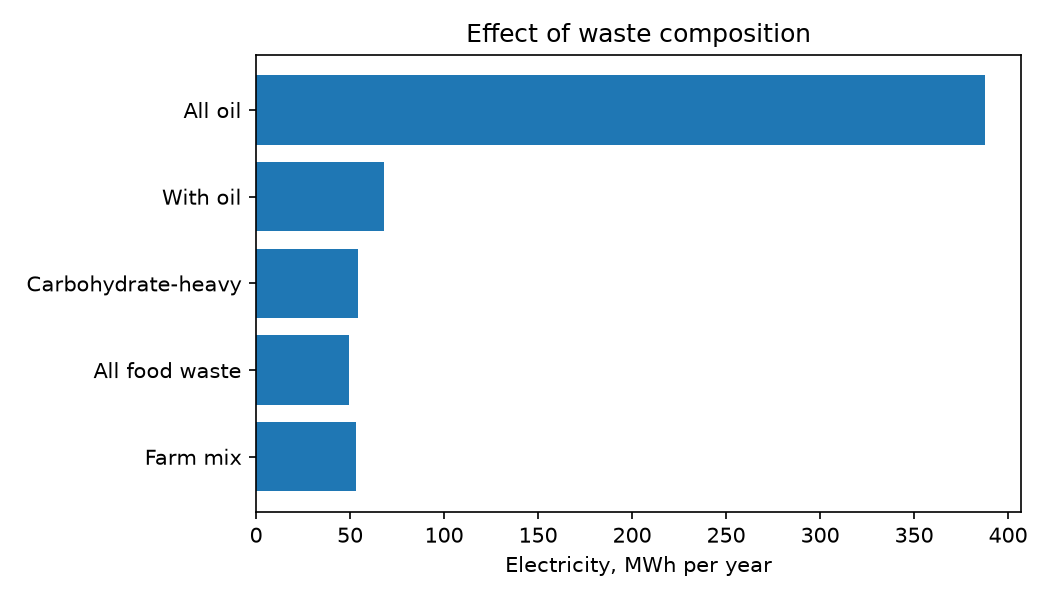
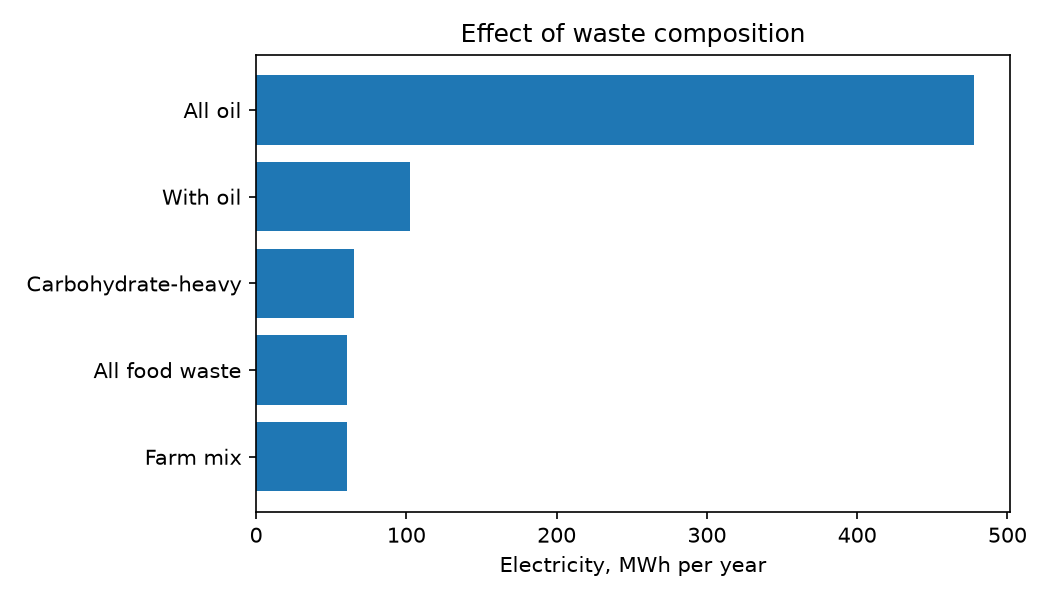
documentation + data export

diff --git a/src/Feedstockmodel.py b/src/Feedstockmodel.py
@@ -210,14 +210,14 @@ def farm_mix_row(df: pd.DataFrame, wet_kg_per_day:dict, vs_fraction_of_wet:dict,
     row["basis"] = basis
     return row
 
-def composition_table(df:pd.DataFrame, compositions: dict, vs_fraction_of_wet:dict, pretreatment_id:str = "S3", operating_days:float = 365, reference_id: str = "S3", use_batch: bool = True, yeilds: dict | None = None, constants: tuple | None = None) -> pd.DataFrame:
-    if yeilds is None:
-        yeilds, _ = fit_feedstock_yield(df, reference_id)
+def composition_table(df:pd.DataFrame, compositions: dict, vs_fraction_of_wet:dict, pretreatment_id:str = "S3", operating_days:float = 365, reference_id: str = "S3", use_batch: bool = True, yields: dict | None = None, constants: tuple | None = None) -> pd.DataFrame:
+    if yields is None:
+        yields, _ = fit_feedstock_yield(df, reference_id)
     if constants is None:
         constants = energy_constants(df)
     rows = []
     for name, wet in compositions.items():
-        row = farm_mix_row(df, wet, vs_fraction_of_wet, pretreatment_id, name, reference_id, use_batch, yeilds, constants)
+        row = farm_mix_row(df, wet, vs_fraction_of_wet, pretreatment_id, name, reference_id, use_batch, yields, constants)
         rows.append(
             {
                 "composition": name,

diff --git a/outputs/report.md b/outputs/report.md
@@ -4,26 +4,26 @@
 
 | metric                         |    value |
 |:-------------------------------|---------:|
-| Waste processed (wet t/yr)     |   146    |
-| Methane (Nm3/yr)               | 15232.3  |
-| Gross electricity (kWh/yr)     | 53030.8  |
-| Net electricity (kWh/yr)       | 47727.7  |
-| Useful recovered heat (kWh/yr) | 47728.1  |
+| Waste processed (wet t/yr)     |   180    |
+| Methane (Nm3/yr)               | 17425.8  |
+| Gross electricity (kWh/yr)     | 60667.2  |
+| Net electricity (kWh/yr)       | 54600.5  |
+| Useful recovered heat (kWh/yr) | 54600.9  |
 | Overall efficiency (%)         |    63    |
-| Electricity saving ($/yr)      | 12122.8  |
-| Heat saving ($/yr)             |  3369.04 |
-| CO2 avoided (t/yr)             |    44.64 |
+| Electricity saving ($/yr)      | 16161.8  |
+| Heat saving ($/yr)             |  3854.19 |
+| CO2 avoided (t/yr)             |    60.96 |
 
 ## Energy balance
 
 ```
-Energy in                      151,518kWh/yr
-Gross useful output             53,031kWh/yr
-of which own use                 5,303kWh/yr
-Net electricity                 47,728kWh/yr
-Recovered heat used             47,728kWh/yr
-Loses                           50,759kWh/yr
-Total out                      151,518kWh/yr
+Energy in                      173,336kWh/yr
+Gross useful output             60,667kWh/yr
+of which own use                 6,067kWh/yr
+Net electricity                 54,601kWh/yr
+Recovered heat used             54,601kWh/yr
+Loses                           58,068kWh/yr
+Total out                      173,336kWh/yr
 Closure error                    0.0%
 Efficiency (gross)              66.5%
 Efficiency (net)                63.0%
@@ -33,11 +33,11 @@ Efficiency (net)                63.0%
 
 | composition        |   wet_kg_per_day |   vs_kg_per_day |   ch4_nm3_per_day |   electricity_kwh_per_year |   vs_first |
 |:-------------------|-----------------:|----------------:|------------------:|---------------------------:|-----------:|
-| Farm mix           |              400 |           100   |             41.73 |                    53030.8 |       0    |
-| All food waste     |              400 |            90   |             38.72 |                    49207.9 |      -0.07 |
-| Carbohydrate-heavy |              400 |           116   |             42.5  |                    54009.7 |       0.02 |
-| With oil           |              400 |           109.5 |             53.54 |                    68038.5 |       0.28 |
-| All oil            |              400 |           380   |            305.01 |                   387590   |       6.31 |
+| Farm mix           |              500 |          112.5  |             48.41 |                    60667.2 |       0    |
+| All food waste     |              500 |          112.5  |             48.41 |                    60667.2 |       0    |
+| Carbohydrate-heavy |              500 |          146.25 |             52.06 |                    65248.8 |       0.08 |
+| With oil           |              500 |          148.75 |             81.69 |                   102386   |       0.69 |
+| All oil            |              500 |          475    |            381.27 |                   477851   |       6.88 |
 
 ## Alignment with Group 1
 
@@ -45,36 +45,16 @@ Efficiency (net)                63.0%
 - S3: 430.2 L CH4/kg VS used; Group 1's Specific Yield column says 285.1
 - Group 1's Specific Yield column is not methane per kg VS fed (it is treated yield x stability / 2.5), so it is not used
 - Food-waste VS share of wet weight: yours 0.225, Group 1 0.225
-- Farm mix by VS (Group 1's SCG percentages are by VS): food_waste 72.0%, scg 28.0%
+- Farm mix by VS (Group 1's SCG percentages are by VS): food_waste 100.0%
 - Check: Group 1's own feed in your model gives 3.37 kWh/day of electricity vs their 3.37 (+0.0%, matches)
 
 ## All scenarios
 
 The farm's own waste run under each Group 1 scenario. Full columns are in all_scenarios.csv.
 
-| Scenario ID   | Scenario                                     |   Yield multiplier |   Net electricity (kWh/yr) |   CO2 avoided (t/yr) |   Total Savings ($/yr) |   Net electricity vs S3 (%) | Notes                                                                   |
-|:--------------|:---------------------------------------------|-------------------:|---------------------------:|---------------------:|-----------------------:|----------------------------:|:------------------------------------------------------------------------|
-| S1            | Control food waste                           |              0.895 |                    42698.6 |               39.936 |                13859.5 |                     -10.537 |                                                                         |
-| S2            | Low fungal pretreatment                      |              0.939 |                    44818.7 |               41.919 |                14547.6 |                      -6.095 |                                                                         |
-| S3            | Moderate fungal pretreatment (Reference)     |              1     |                    47727.7 |               44.64  |                15491.9 |                       0     |                                                                         |
-| S4            | High fungal pretreatment                     |              1.049 |                    50045.1 |               46.807 |                16244.1 |                       4.855 |                                                                         |
-| S5            | Extended fungal pretreatment                 |              1.086 |                    51820.1 |               48.467 |                16820.2 |                       8.574 |                                                                         |
-| S6            | Moderate pretreatment + 10% SCG              |              1     |                    47742.7 |               44.654 |                15496.7 |                       0.031 | different feedstock; only its process effect is applied to the farm mix |
-| S7            | Moderate pretreatment + 20% SCG              |              1     |                    47712.6 |               44.625 |                15487   |                      -0.032 | different feedstock; only its process effect is applied to the farm mix |
-| S8            | Moderate pretreatment + 30% SCG              |              1     |                    47732.8 |               44.644 |                15493.5 |                       0.011 | different feedstock; only its process effect is applied to the farm mix |
-| S9            | Moderate pretreatment + 10% SCG + high OLR   |              1     |                    47742.7 |               44.654 |                15496.7 |                       0.031 | different feedstock; only its process effect is applied to the farm mix |
-| S10           | Carbohydrate-rich (Cooked Rice)              |              1     |                    47727.7 |               44.64  |                15491.9 |                       0     | different feedstock; only its process effect is applied to the farm mix |
-| S11           | Protein-rich (Meat Waste)                    |              1     |                    47727.7 |               44.64  |                15491.9 |                      -0     | different feedstock; only its process effect is applied to the farm mix |
-| S12           | Lipid-rich (Plant Oil)                       |              1     |                    47727.7 |               44.64  |                15491.9 |                      -0     | different feedstock; only its process effect is applied to the farm mix |
-| S13           | Fibre-rich (Banana Peel)                     |              1     |                    47727.7 |               44.64  |                15491.9 |                       0     | different feedstock; only its process effect is applied to the farm mix |
-| S14           | Acidogenic Bacterial Activity (+20%)         |              1.001 |                    47777   |               44.686 |                15507.9 |                       0.103 |                                                                         |
-| S15           | Acetogenic Bacterial Activity (+20%)         |              1.001 |                    47777   |               44.686 |                15507.9 |                       0.103 |                                                                         |
-| S16           | Acetoclastic Methanogenic Archaea (+20%)     |              1.112 |                    53052.7 |               49.62  |                17220.3 |                      11.157 | Group 1 energy columns don't match its yield; energy taken from yield   |
-| S17           | Hydrogenotrophic Methanogenic Archaea (+20%) |              1     |                    47727.7 |               44.64  |                15491.9 |                       0     |                                                                         |
-| S21           | Low biochar addition                         |              1.001 |                    47790.8 |               44.699 |                15512.3 |                       0.132 | effect from uncalibrated batch test                                     |
-| S22           | Moderate biochar addition                    |              1.001 |                    47789   |               44.697 |                15511.8 |                       0.128 | effect from uncalibrated batch test                                     |
-| S23           | High biochar addition                        |              1.001 |                    47770.8 |               44.68  |                15505.9 |                       0.09  | effect from uncalibrated batch test                                     |
-| S24           | Reduced inoculum: S:I = 2                    |              0.975 |                    46511.3 |               43.502 |                15097   |                      -2.549 | effect from uncalibrated batch test                                     |
+| Scenario ID   | Scenario                                 |   Yield multiplier |   Net electricity (kWh/yr) |   CO2 avoided (t/yr) |   Total Savings ($/yr) |   Net electricity vs S3 (%) | Notes   |
+|:--------------|:-----------------------------------------|-------------------:|---------------------------:|---------------------:|-----------------------:|----------------------------:|:--------|
+| S3            | Moderate fungal pretreatment (Reference) |                  1 |                    54600.5 |                60.96 |                20015.9 |                           0 |         |
 
 ## Data checks (for Group 1)
 
@@ -84,7 +64,7 @@ These rows have energy columns that do not match their methane yield. The pipeli
 
 | Scenario ID   | check                           |   value |   expected |
 |:--------------|:--------------------------------|--------:|-----------:|
-| S16           | methane energy content (MJ/Nm3) |  32.217 |     35.808 |
+| S16           | Methane energy content (MJ/Nm3) |  32.217 |     35.808 |
 
 ## Status
 

diff --git a/README.md b/README.md
@@ -5,13 +5,16 @@ Core group 2 of Waste-to-Engery project. This code takes a farm food-waste compo
 
 **Group 2:** The Minh Tran (103488609, team lead), Serei Putthi Ros(105215456)
 
-##What this awnser
+## Use Cases
 
-The supervisor question is wether this is worthit for the farmer: What does it cost, how much energy does it produce, and how much does that save over a year. This code covers the energy and savings side.
+Using the simulation lets the user answer "is this simulation / project worth it (for a farm-scale production)?".
 
-Group 1's simulation give yield at laboratory scale(3.4 volatile soilids per day ) This code would scale to account fro farm and account for the fact farmer waste will not have same composition as the lab's
+The data provides information on economic and environmental benefits - energy yield (biomethane / heat), and profits from saved electricity savings and energy exports.
 
-##Quick Start
+Group 1's simulations provides energy yields at laboratory scale (3.4 volatile soilids per day). This code would scale to account for farm-scale inputs as well as differences in food waste compositions.
+
+## Quick Start
+
 ```powershell
 python -m venv .venv
 .venv\Scripts\Activate.ps1
@@ -40,8 +43,8 @@ Group 2/
 └── outputs/                    generated, not committed
 ```
 
-
 ## How the calculation works
+
 Each stage, with the numbers from a 400kg/day run (320kg food waste, 80kg spent coffee grounds):
 
 | Stage | Module | Result |
@@ -59,9 +62,9 @@ Only part of wet waste can produce gas, so first stage matter more that it looks
 
 Heat recovery is what lifts efficiency from 31.5% to 63% the engine turn 35% of the methane energy to electricity; recovering the waste heat roughly double the useful output
 
-### Feedstock yeilds
+### Feedstock yields
 
-`fit_feetstock_yeild` does not use Group 1's scenario one at a time. It fits a specific yeild for each feedstock across all their same-pretreatment scenarios, than builds any compisition from those six numbers
+`fit_feetstock_yield` does not use Group 1's scenario one at a time. It fits a specific yield for each feedstock across all their same-pretreatment scenarios, than builds any compisition from those six numbers
 
 | Feedstock | L CH₄ / kg VS |
 | --- | --- |
@@ -74,12 +77,14 @@ Heat recovery is what lifts efficiency from 31.5% to 63% the engine turn 35% of 
 
 Group 1's food-waste/coffee blends combine exactly in proportion, which is what makes this valid. Coffee ground were never run alone, so 254 is extraploated from the blends.
 
-##Configuration
-eveything is in `data/assumptions.yaml` Seven Section are required: `farm`, `pretreatment`, `chp`, `heat_recovery`, `energy_value`, `emission`, `costs`.
+## Configuration
 
-Supported waste types: `food_waste`, `scg`, `rice`, `meat`, `oil`, `peel`. Anything else raises an error - to map the closest type or ask group 1 
+All configuration data (to customise food waste inputs) is in `data/assumptions.yaml` Seven sections are required: `farm`, `pretreatment`, `chp`, `heat_recovery`, `energy_value`, `emission`, `costs`.
 
-## Known limitation
+Supported waste types: `food_waste`, `scg`, `rice`, `meat`, `oil`, `peel`. Anything else raises an error. Refer to Group 1 and 3's scenario selections for more information.
+
+## Known limitations
+
 **Yields assume the farm's loading rate matches the lab's.** Group 1's scenario S9 produces twice the metane of S6 for the same mix but 20% less per kg of volatile solids. Scaling the feed up without sizing the digester with it will overstate the energy.
 
 **untested blends.** Only food waste with coffee grounds was shown to combine proportionally. Rice-Heavy and oil blends assume the same behavior.
